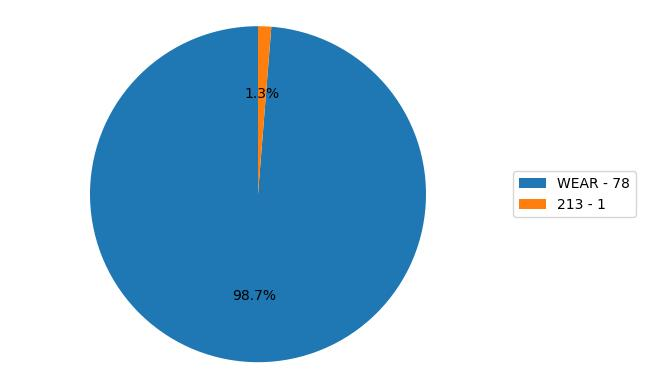
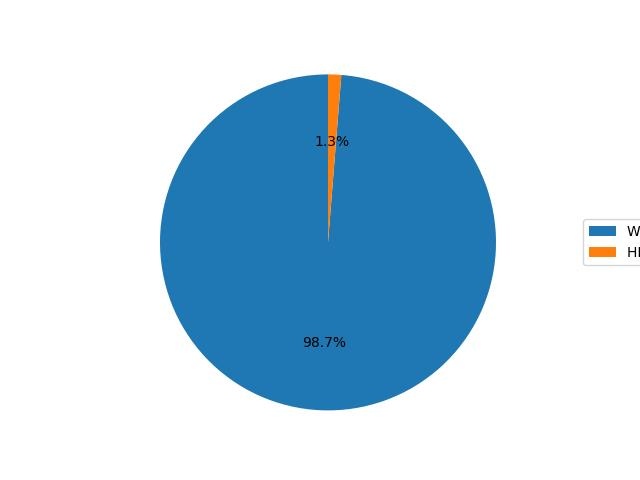
MB use to defend

Changed region(s): [[0.125, 0.0617, 1.0, 0.9563], [0.4688, 0.6787, 0.5625, 0.7404]]

diff --git a/main.py b/main.py
@@ -882,7 +882,7 @@ class LogViewer(QWidget):
 
         # Сохранение диаграммы в файл
         output_path = os.path.join(current_directory, 'statistics_graph/stat.jpg')
-        plt.savefig(output_path, bbox_inches="tight")
+        plt.savefig(output_path)
 
     def send_report(self):
         self.adder_stat()
